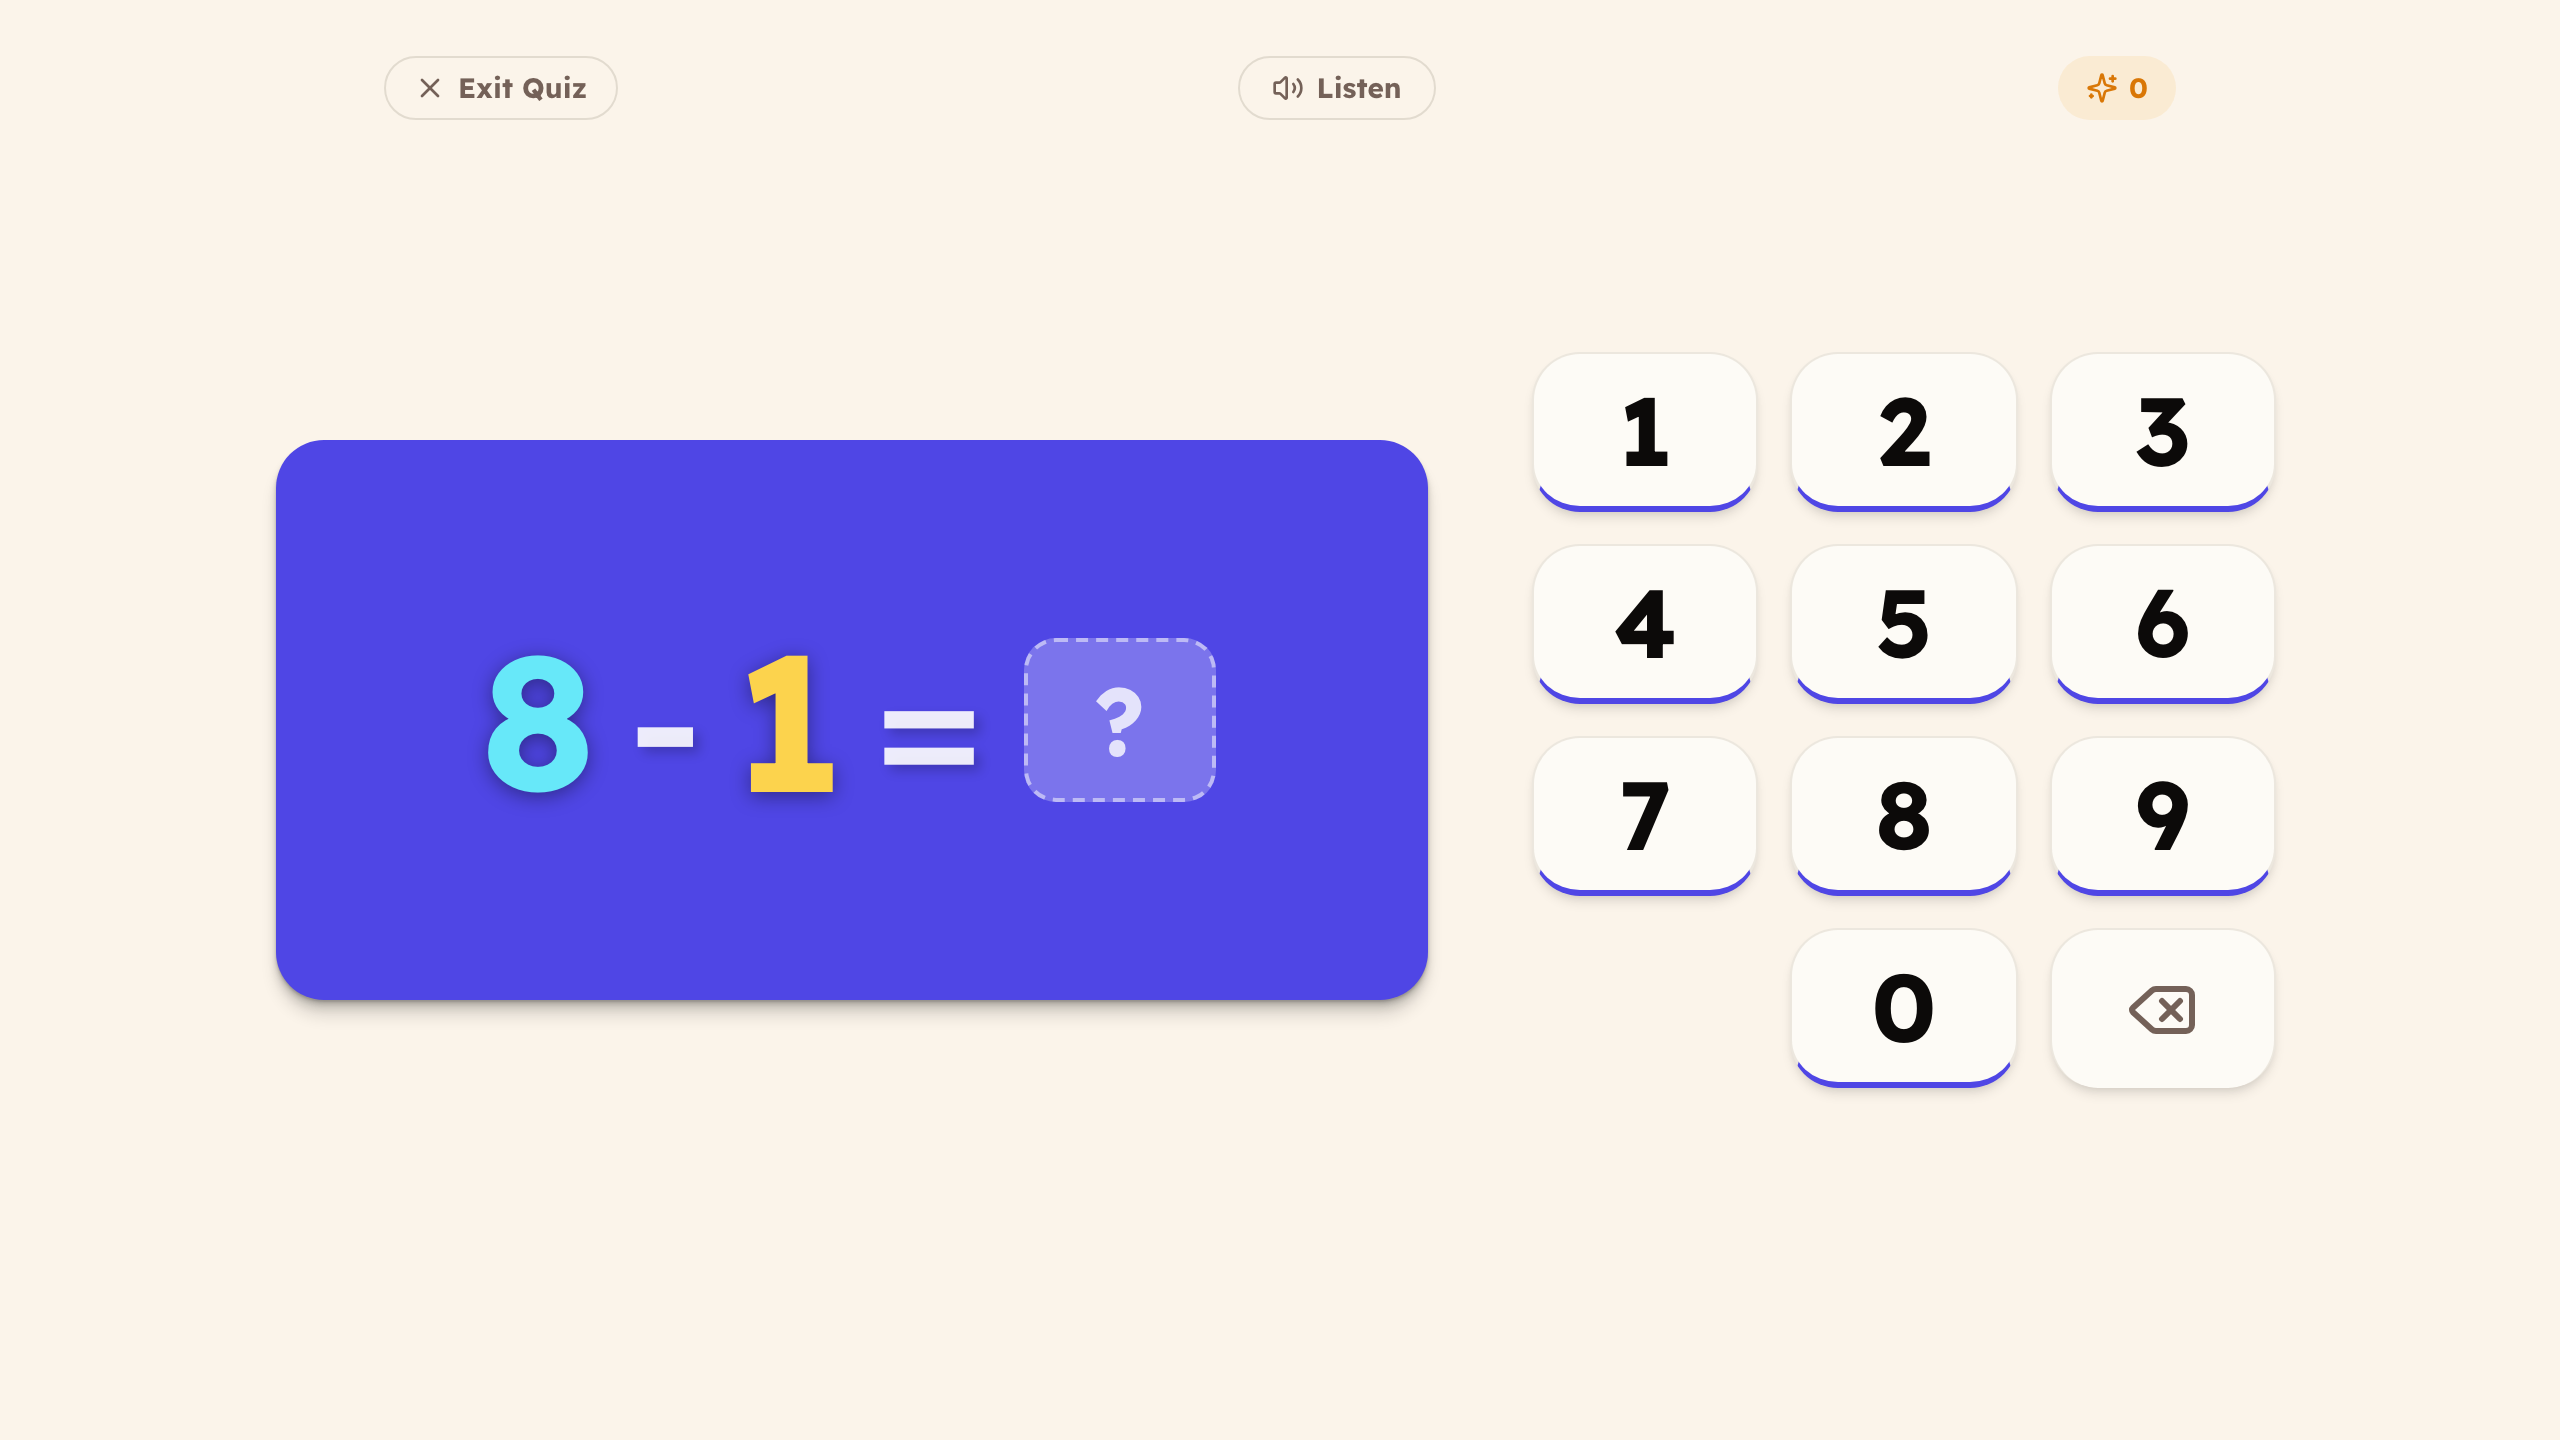
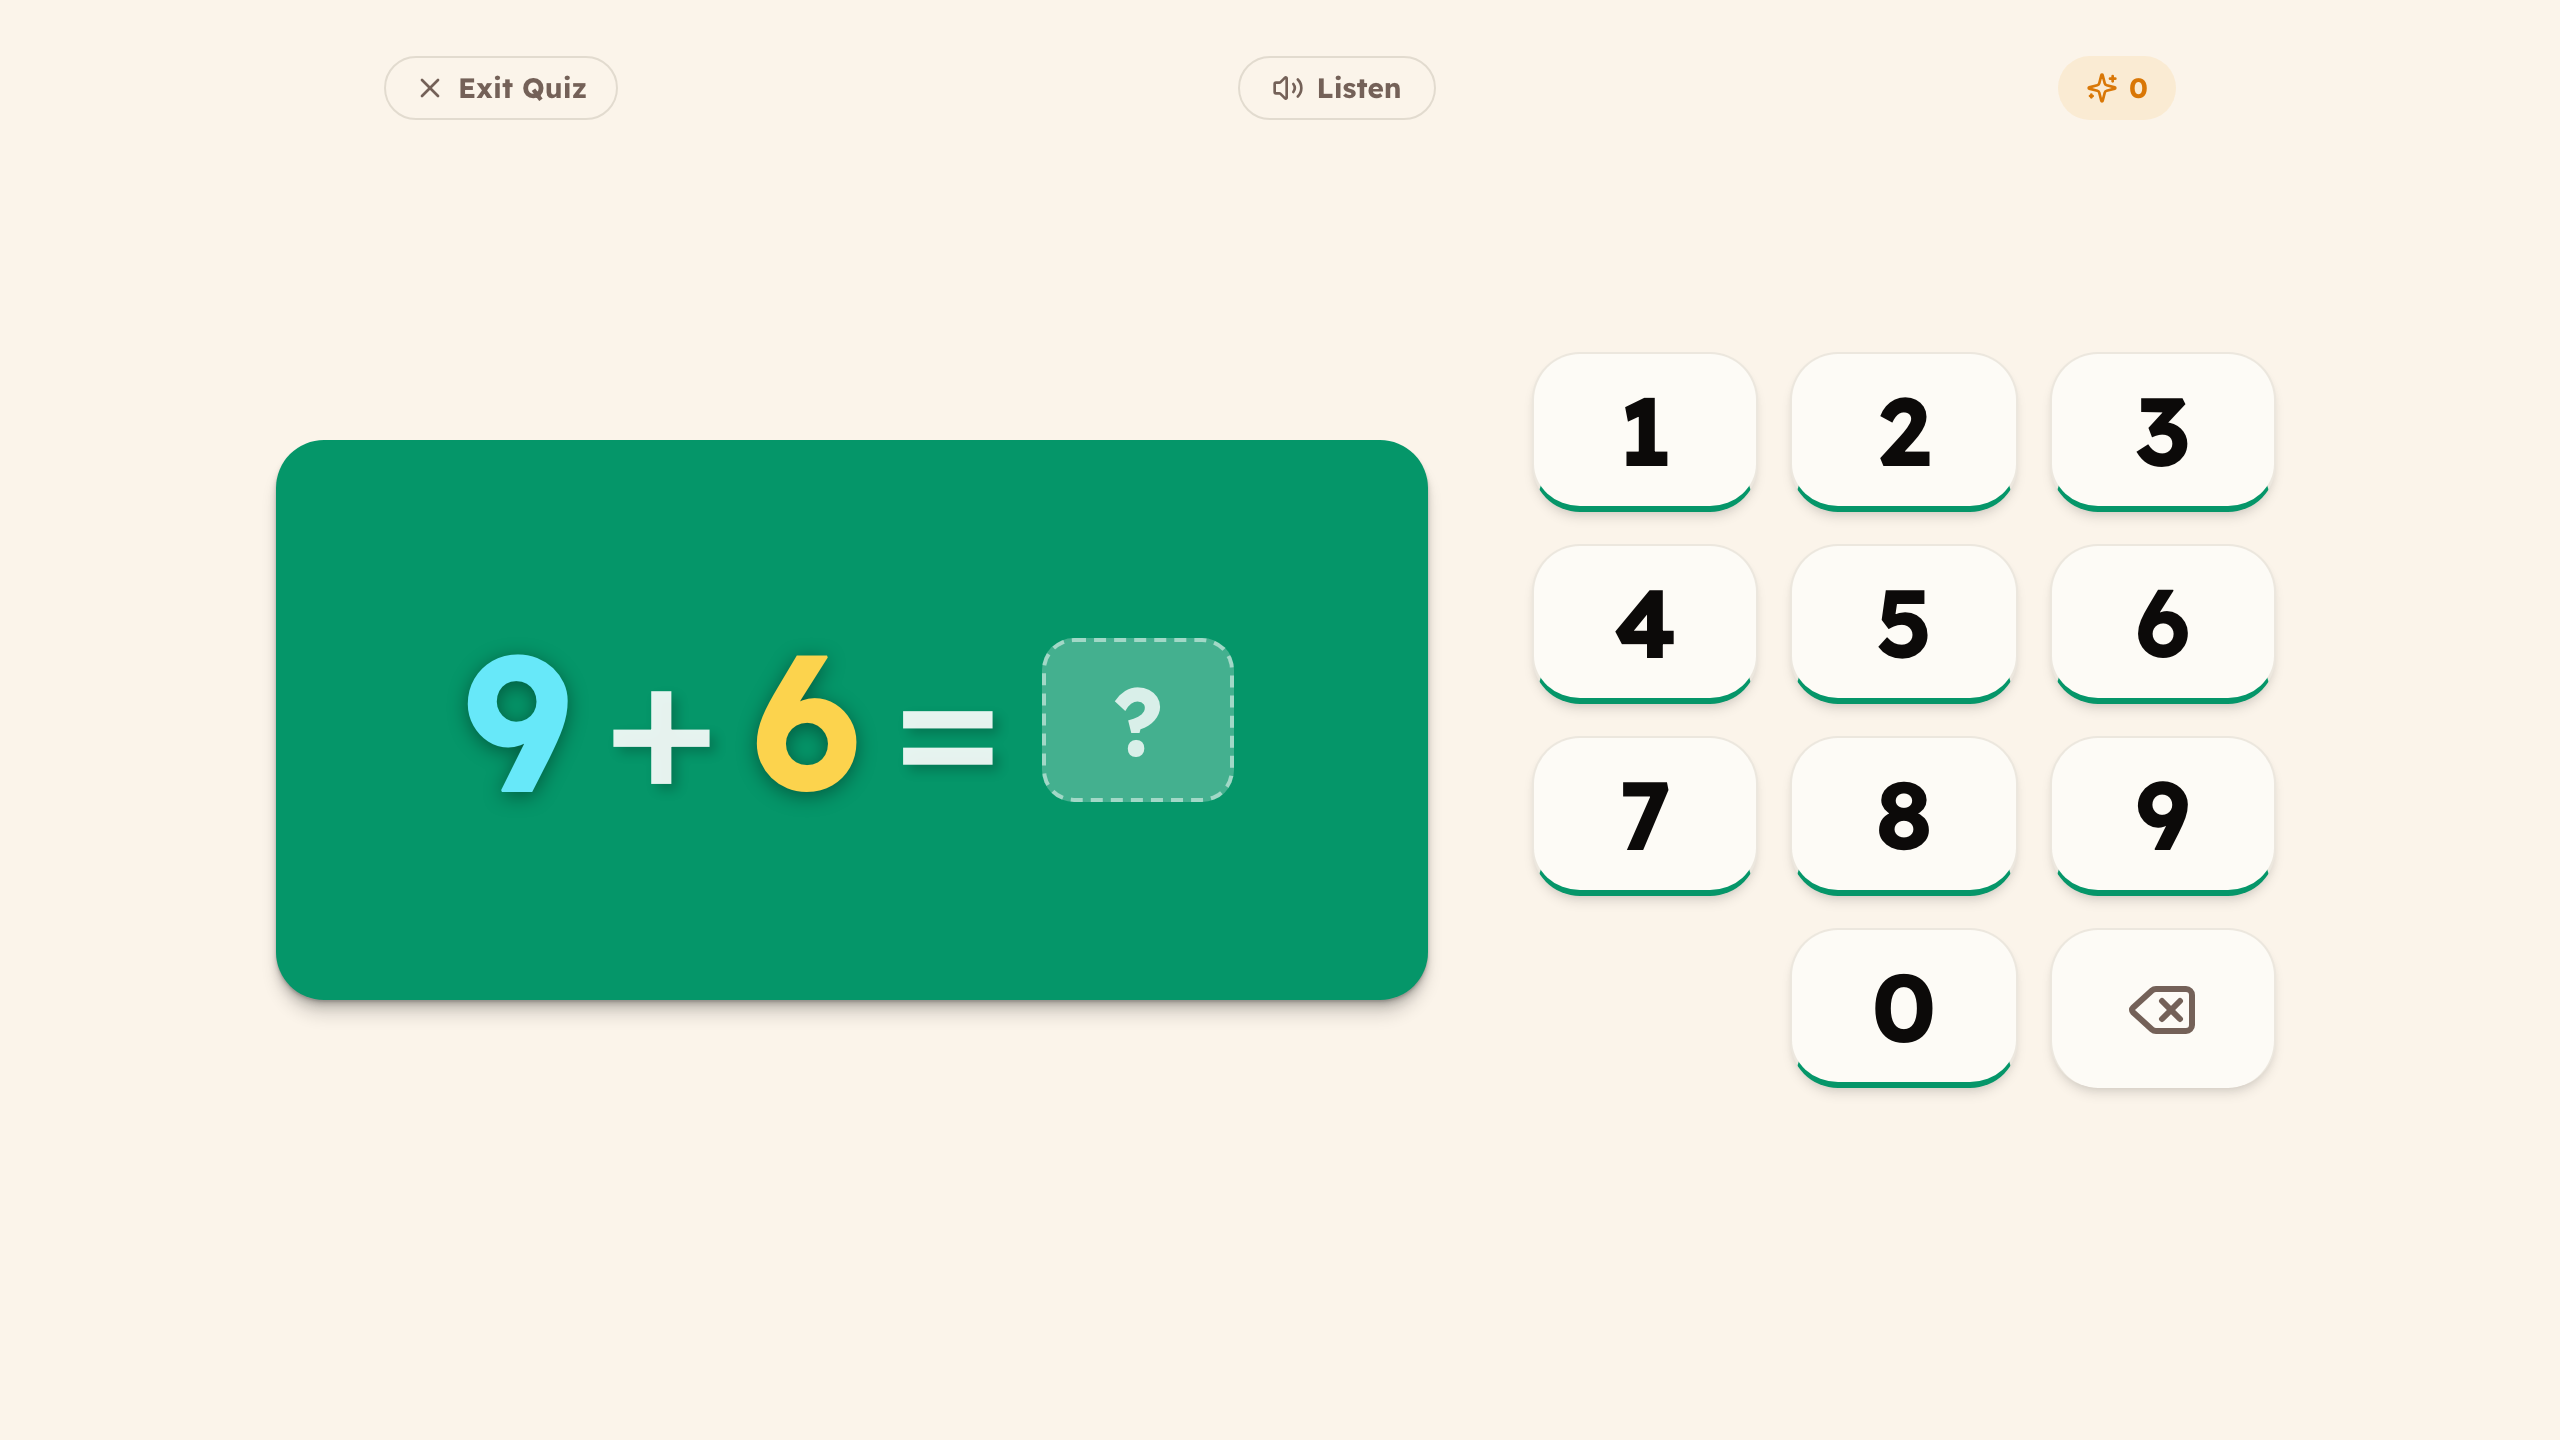
fix(landing-page): remove dev-mode outlines and align all deck showcases with emerald green cards

diff --git a/scripts/generate-landing-screenshots.ts b/scripts/generate-landing-screenshots.ts
@@ -28,16 +28,33 @@ async function hideDevOverlays(page: Page) {
         #nextjs-dev-tools,
         #__next-build-watcher,
         div[data-nextjs-portal],
-        .nextjs-toast-errors-parent {
+        .nextjs-toast-errors-parent,
+        [data-card-debug-badge],
+        [data-card-debug-badge="true"],
+        span:has-text("PROMPT CONTAINER"),
+        span:has-text("REVEAL CONTAINER") {
           display: none !important;
           visibility: hidden !important;
           opacity: 0 !important;
           pointer-events: none !important;
         }
+        [data-card-section] {
+          outline: none !important;
+          border: none !important;
+        }
+        .outline-cyan-400\\/80,
+        .outline-emerald-400\\/80,
+        .outline-dashed,
+        .outline-2 {
+          outline: none !important;
+        }
       `,
     });
     await page.evaluate(() => {
-      document.querySelectorAll('nextjs-portal, [data-nextjs-dev-tools], #nextjs-dev-tools, #__next-build-watcher').forEach(el => el.remove());
+      document.querySelectorAll('nextjs-portal, [data-nextjs-dev-tools], #nextjs-dev-tools, #__next-build-watcher, [data-card-debug-badge]').forEach(el => el.remove());
+      document.querySelectorAll('[data-card-section]').forEach(el => {
+        (el as HTMLElement).style.outline = 'none';
+      });
     });
   } catch (e) {}
 }
@@ -255,14 +272,17 @@ async function generateLandingScreenshots() {
   await page.waitForSelector('main');
   await page.waitForTimeout(600);
 
-  // Set Light Theme
+  // Set Light Theme & Triangles topic (Brand Emerald Green)
   await page.evaluate(() => {
     document.documentElement.classList.remove('dark');
     document.documentElement.classList.add('light');
     localStorage.setItem('theme', 'light');
-    localStorage.setItem('geometry-deck-topic', '"triangles"');
+    localStorage.setItem('geometry-deck-topics', JSON.stringify(['triangles']));
+    localStorage.setItem('geometry-deck-card-types', JSON.stringify(['calculation']));
   });
-  await page.waitForTimeout(400);
+  await page.goto('http://localhost:9004');
+  await page.waitForSelector('main');
+  await page.waitForTimeout(500);
   await clearFocus(page);
 
   // 1. Front (Light)
@@ -274,6 +294,8 @@ async function generateLandingScreenshots() {
     document.documentElement.classList.remove('light');
     document.documentElement.classList.add('dark');
     localStorage.setItem('theme', 'dark');
+    localStorage.setItem('geometry-deck-topics', JSON.stringify(['triangles']));
+    localStorage.setItem('geometry-deck-card-types', JSON.stringify(['calculation']));
   });
   await page.waitForTimeout(300);
   await clearFocus(page);
@@ -285,10 +307,12 @@ async function generateLandingScreenshots() {
     document.documentElement.classList.remove('dark');
     document.documentElement.classList.add('light');
     localStorage.setItem('theme', 'light');
+    localStorage.setItem('geometry-deck-topics', JSON.stringify(['triangles']));
+    localStorage.setItem('geometry-deck-card-types', JSON.stringify(['calculation']));
   });
   await page.goto('http://localhost:9004');
   await page.waitForSelector('main');
-  await page.waitForTimeout(400);
+  await page.waitForTimeout(500);
   const flipBtn = page.locator("button[aria-label='Flip Card'], button[aria-label='Show Solution']").first();
   if (await flipBtn.isVisible()) {
     await flipBtn.click();
@@ -303,6 +327,8 @@ async function generateLandingScreenshots() {
     document.documentElement.classList.remove('light');
     document.documentElement.classList.add('dark');
     localStorage.setItem('theme', 'dark');
+    localStorage.setItem('geometry-deck-topics', JSON.stringify(['triangles']));
+    localStorage.setItem('geometry-deck-card-types', JSON.stringify(['calculation']));
   });
   await page.waitForTimeout(300);
   await clearFocus(page);
